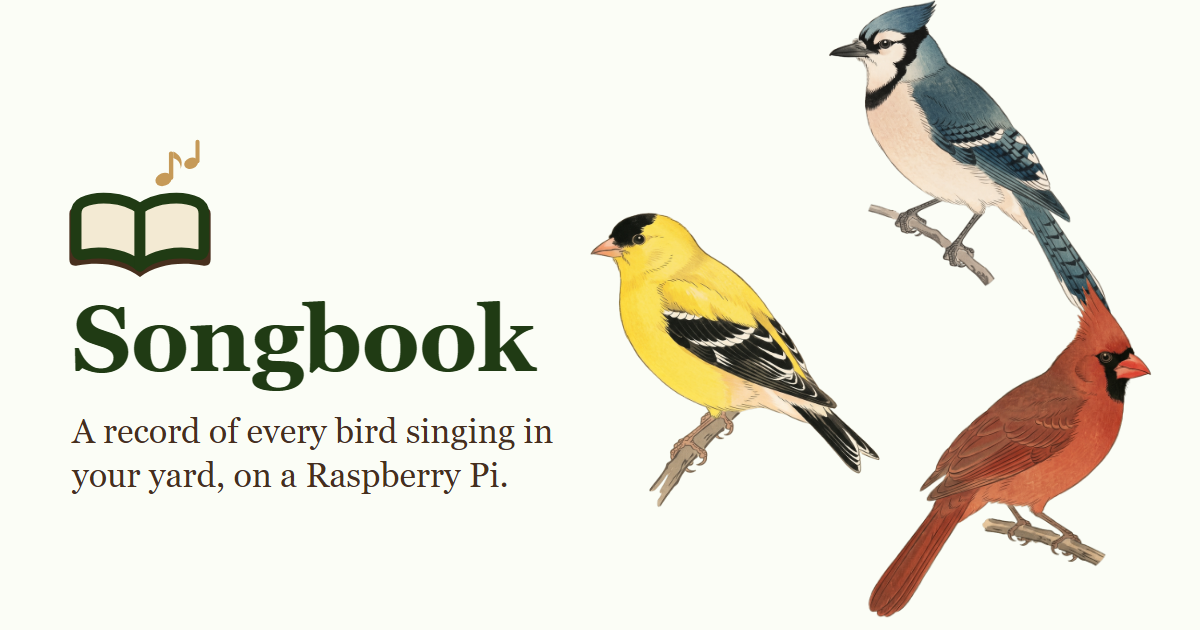
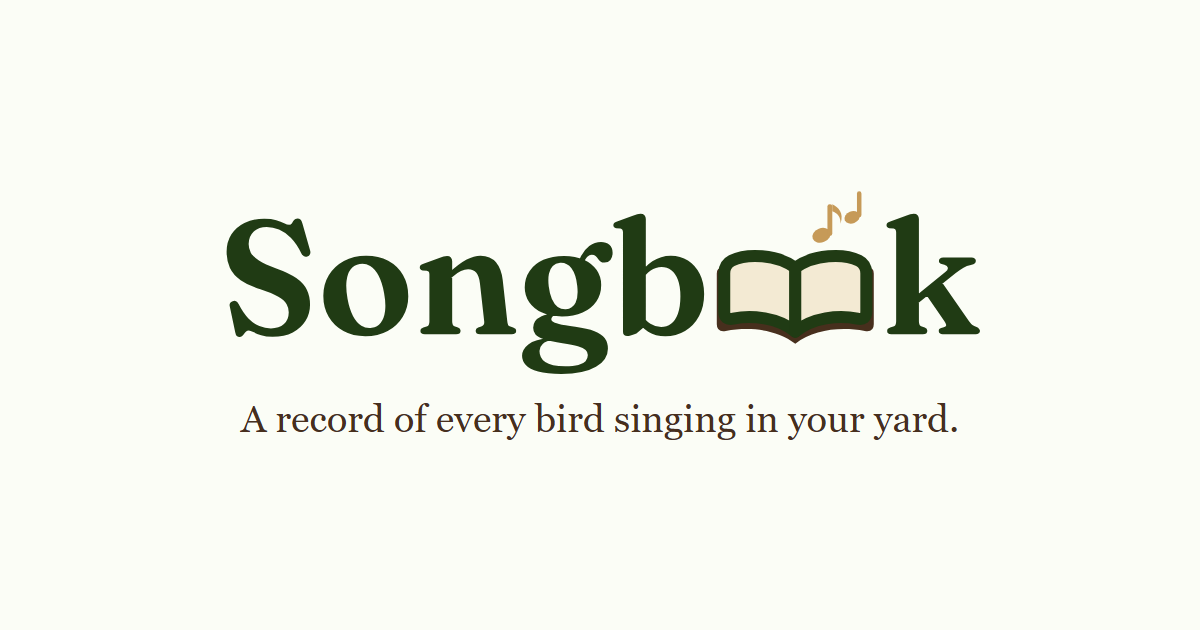
feat(ui): center the wordmark in the default link preview
Replace the paintings with the app's real wordmark and a tagline, and drop
the Raspberry Pi wording from the tagline and default description.

Changed region(s): [[0.0308, 0.0, 0.9558, 0.9952]]

diff --git a/web-ui/scripts/render-link-images.ts b/web-ui/scripts/render-link-images.ts
@@ -3,43 +3,38 @@ import { tmpdir } from "node:os";
 import path from "node:path";
 import { pathToFileURL } from "node:url";
 import { chromium } from "@playwright/test";
+import { createElement } from "react";
+import { renderToStaticMarkup } from "react-dom/server";
+import { SongbookWordmark } from "../src/components/sidebar/songbook-wordmark.tsx";
 
 /**
  * Renders the link-preview image and the home-screen icons into public/.
- * Run with `npm run link-images`. The inputs are the real logo and paintings,
- * so nothing here is drawn by an image model. Commit the output.
+ * Run with `npm run link-images`. The inputs are the app's real wordmark and
+ * logo, so nothing here is drawn by an image model. Commit the output.
  */
 
 const PUBLIC_DIR = path.resolve("public");
 const PAPER = "#fbfdf6";
 const MOSS = "#203b14";
 const BARK = "#472f1d";
+const SAND = "#c69a58";
 
 const publicUrl = (file: string) =>
 	pathToFileURL(path.join(PUBLIC_DIR, file)).href;
-const painting = (slug: string) => publicUrl(`illustrations/${slug}.webp`);
 
 function previewCard(): string {
+	const wordmark = renderToStaticMarkup(createElement(SongbookWordmark));
 	return `<!doctype html><html><head><meta charset="utf-8"><style>
 		* { margin: 0; box-sizing: border-box; }
-		body { width: 1200px; height: 630px; overflow: hidden; position: relative;
-			background: ${PAPER}; font-family: Georgia, 'Times New Roman', serif; }
-		.copy { position: absolute; left: 72px; top: 0; bottom: 0; width: 500px;
-			display: flex; flex-direction: column; justify-content: center; }
-		.logo { width: 148px; height: 148px; margin-left: -6px; }
-		h1 { margin-top: 12px; font-size: 92px; font-weight: 700; line-height: 1;
-			letter-spacing: -0.01em; color: ${MOSS}; }
-		p { margin-top: 24px; font-size: 34px; line-height: 1.3; color: ${BARK}; }
-		.bird { position: absolute; }
+		:root { --bark: ${BARK}; --sand: ${SAND}; }
+		body { width: 1200px; height: 630px; overflow: hidden; background: ${PAPER};
+			font-family: Georgia, 'Times New Roman', serif; display: flex;
+			flex-direction: column; align-items: center; justify-content: center; }
+		.wordmark { font-size: 162px; line-height: 0; color: ${MOSS}; }
+		p { margin-top: 18px; font-size: 38px; line-height: 1.3; color: ${BARK}; }
 	</style></head><body>
-		<div class="copy">
-			<img class="logo" src="${publicUrl("songbook.svg")}" alt="">
-			<h1>Songbook</h1>
-			<p>A record of every bird singing in your yard, on a Raspberry Pi.</p>
-		</div>
-		<img class="bird" style="width:350px;left:795px;top:-14px" src="${painting("cyanocitta-cristata")}" alt="">
-		<img class="bird" style="width:320px;left:575px;top:200px" src="${painting("spinus-tristis")}" alt="">
-		<img class="bird" style="width:370px;left:825px;top:262px" src="${painting("cardinalis-cardinalis")}" alt="">
+		<div class="wordmark">${wordmark}</div>
+		<p>A record of every bird singing in your yard.</p>
 	</body></html>`;
 }
 

diff --git a/web-ui/src/lib/link-preview.ts b/web-ui/src/lib/link-preview.ts
@@ -2,7 +2,7 @@ import { illustrationUrlFor, isPhotoUrl } from "~/lib/illustrations.ts";
 import { pageTitle } from "~/lib/page-title.ts";
 
 export const STATION_DESCRIPTION =
-	"A record of every bird singing in the yard, heard and identified by a Raspberry Pi station.";
+	"A record of every bird singing in your yard.";
 
 const PREVIEW_SIZE = 400;
 
@@ -17,7 +17,7 @@ type PreviewImage = {
 export function defaultPreviewImage(origin: string): PreviewImage {
 	return {
 		url: `${origin}/og-image.png`,
-		alt: "The Songbook logo beside paintings of a goldfinch, a blue jay and a cardinal",
+		alt: "Songbook: a record of every bird singing in your yard",
 		card: "summary_large_image",
 		width: 1200,
 		height: 630,

diff --git a/README.md b/README.md
@@ -2,7 +2,7 @@
   <img src="web-ui/public/songbook.svg" alt="Songbook" width="240" />
 </p>
 <p align="center">
-A record of every bird singing in your yard, on a Raspberry Pi.
+A record of every bird singing in your yard.
 </p>
 
 Songbook listens through a microphone around the clock, identifies birds with the
